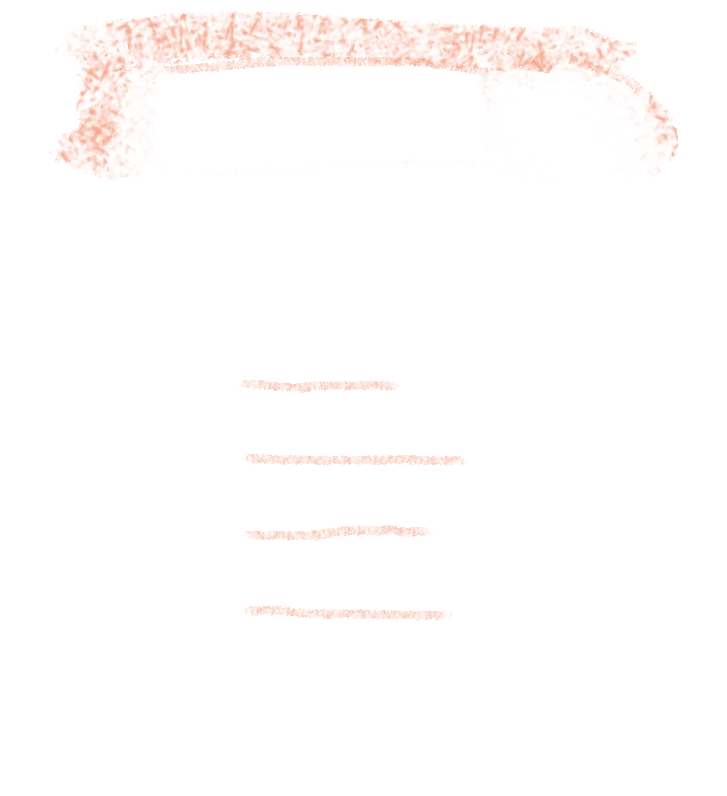
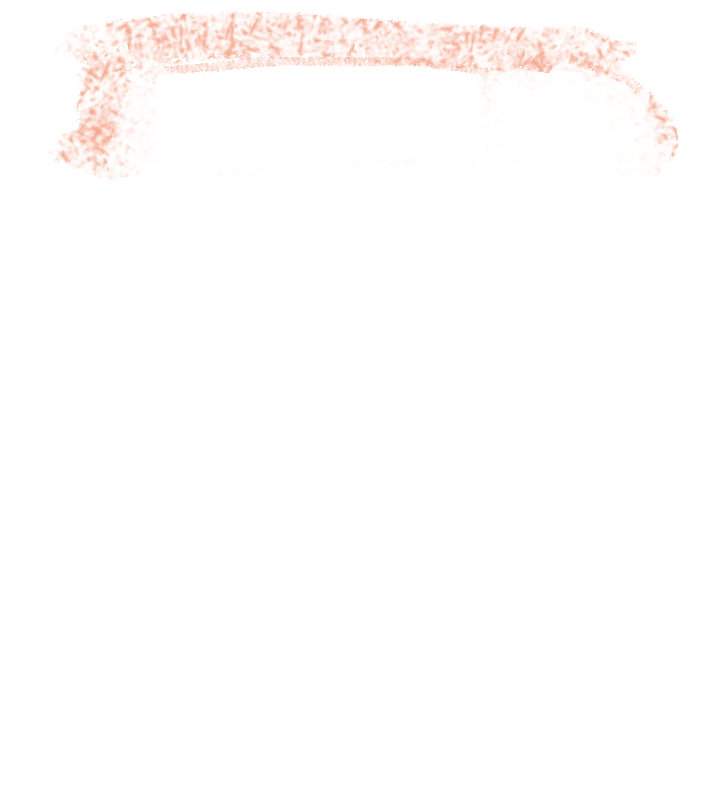
update box

diff --git a/assets/css/preview.scss b/assets/css/preview.scss
@@ -90,6 +90,7 @@ main{
     .pages{
         display: table;
         flex-grow: 1;
+        padding: 50px 0 0 0;
         *{
             display: none;
         }
@@ -98,6 +99,9 @@ main{
         }
         .box{
             background: url('../image/box.webp');
+            width: 727px;
+            height: 796px;
+            display: block;
         }
     }
 }
